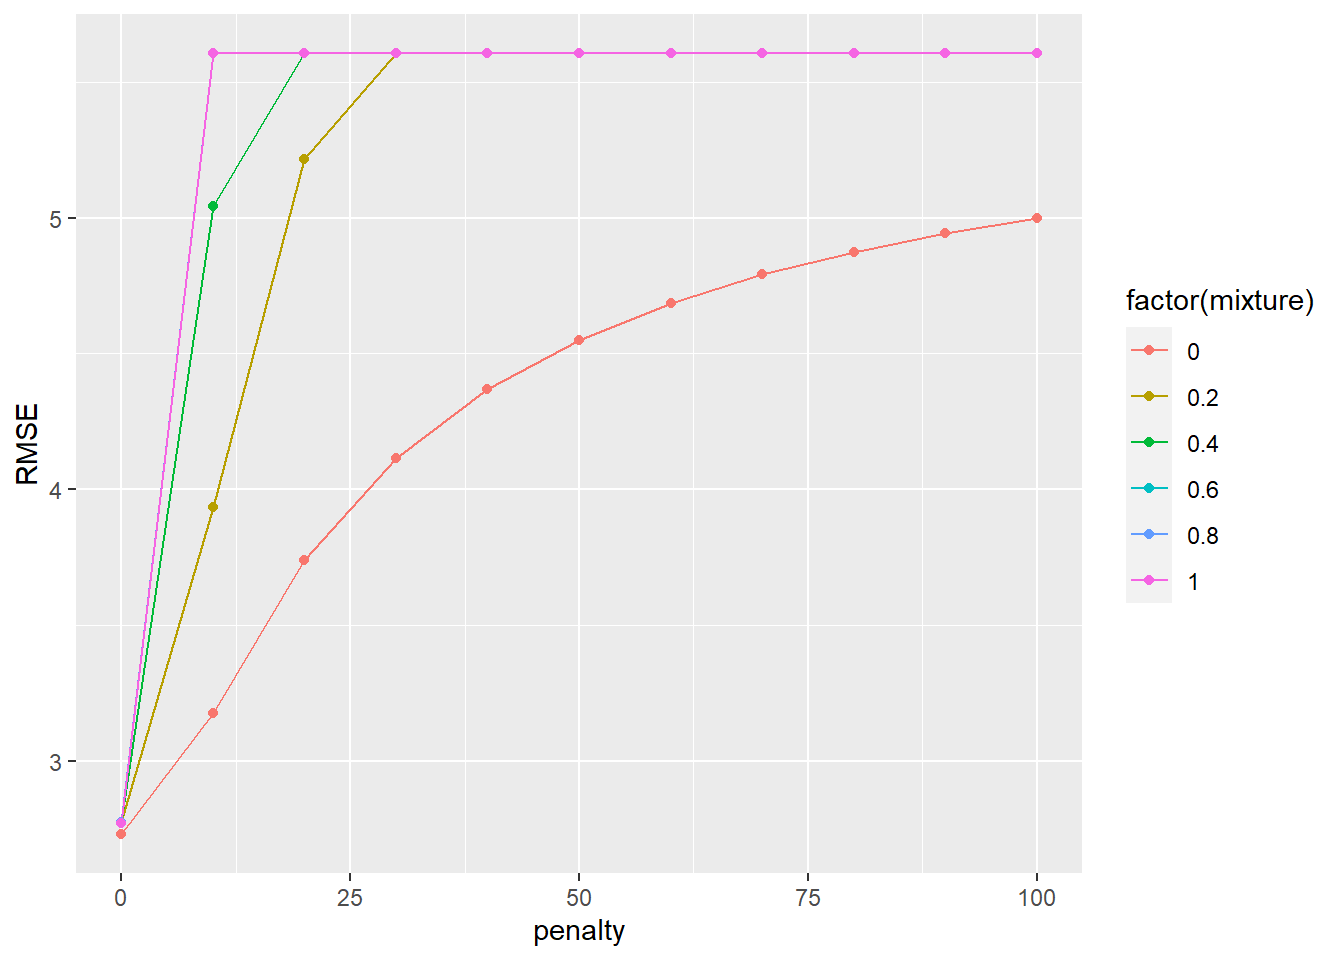
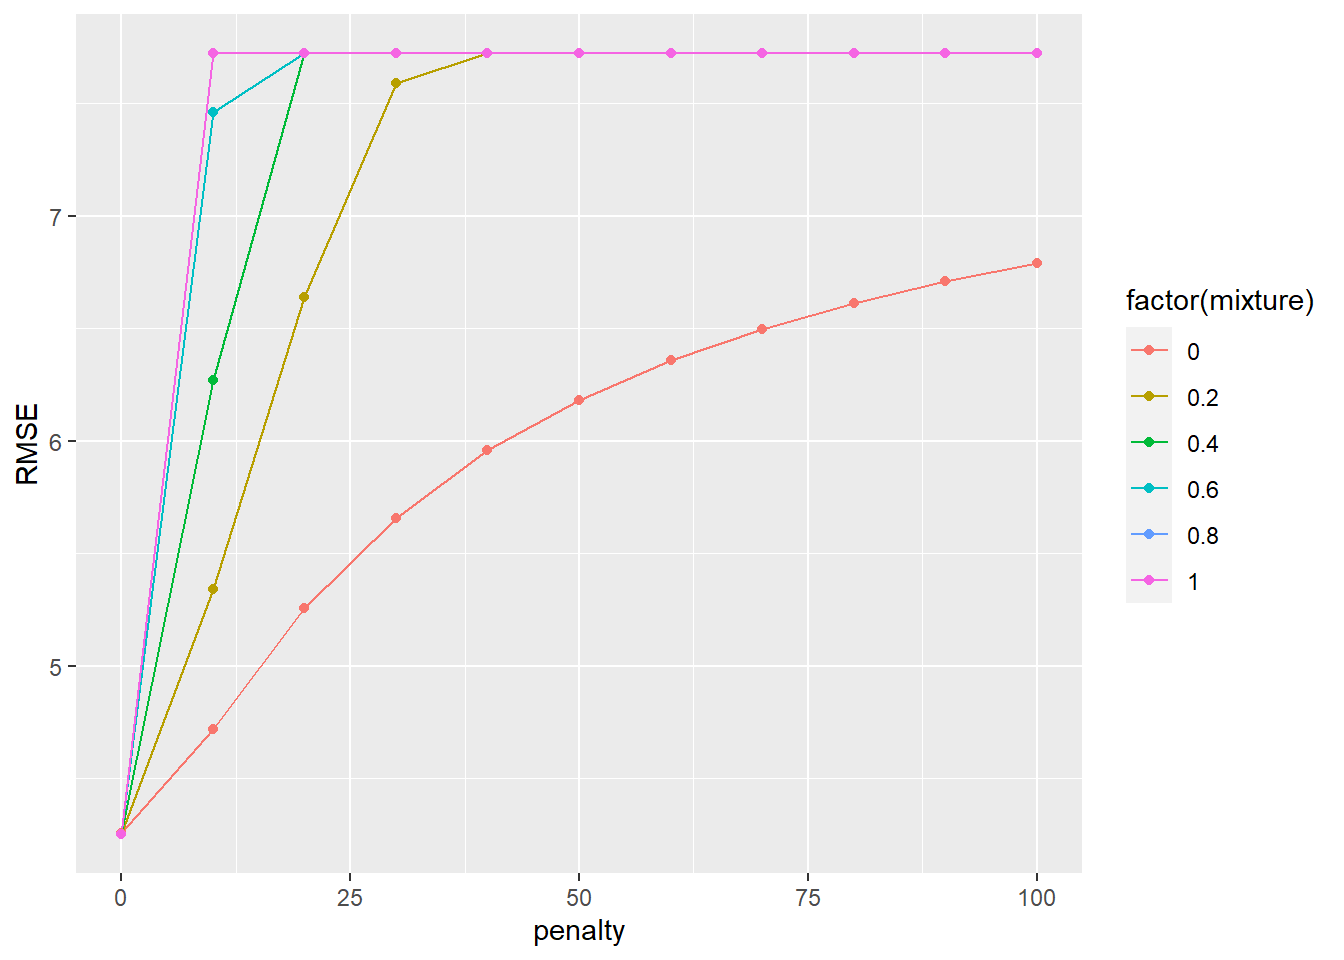
Use Auto dataset from ISLR

diff --git a/tidymodels-elastic-net.html b/tidymodels-elastic-net.html
@@ -141,7 +141,7 @@ code span.wa { color: #60a0b0; font-weight: bold; font-style: italic; } /* Warni
 ✖ dplyr::filter()  masks stats::filter()
 ✖ dplyr::lag()     masks stats::lag()
 ✖ recipes::step()  masks stats::step()
-• Use tidymodels_prefer() to resolve common conflicts.</code></pre>
+• Dig deeper into tidy modeling with R at https://www.tmwr.org</code></pre>
 </div>
 <div class="sourceCode cell-code" id="cb5"><pre class="sourceCode r code-with-copy"><code class="sourceCode r"><span id="cb5-1"><a href="#cb5-1" aria-hidden="true" tabindex="-1"></a><span class="fu">library</span>(glmnet)</span></code><button title="Copy to Clipboard" class="code-copy-button"><i class="bi"></i></button></pre></div>
 <div class="cell-output cell-output-stderr">
@@ -159,29 +159,31 @@ Attaching package: 'Matrix'</code></pre>
 <div class="cell-output cell-output-stderr">
 <pre><code>Loaded glmnet 4.1-4</code></pre>
 </div>
-<div class="sourceCode cell-code" id="cb10"><pre class="sourceCode r code-with-copy"><code class="sourceCode r"><span id="cb10-1"><a href="#cb10-1" aria-hidden="true" tabindex="-1"></a>car_data <span class="ot">&lt;-</span> mtcars</span>
+<div class="sourceCode cell-code" id="cb10"><pre class="sourceCode r code-with-copy"><code class="sourceCode r"><span id="cb10-1"><a href="#cb10-1" aria-hidden="true" tabindex="-1"></a><span class="fu">library</span>(ISLR)</span>
 <span id="cb10-2"><a href="#cb10-2" aria-hidden="true" tabindex="-1"></a></span>
-<span id="cb10-3"><a href="#cb10-3" aria-hidden="true" tabindex="-1"></a>lm_spec <span class="ot">&lt;-</span> </span>
-<span id="cb10-4"><a href="#cb10-4" aria-hidden="true" tabindex="-1"></a>  <span class="fu">linear_reg</span>() <span class="sc">%&gt;%</span> </span>
-<span id="cb10-5"><a href="#cb10-5" aria-hidden="true" tabindex="-1"></a>  <span class="fu">set_engine</span>(<span class="at">engine =</span> <span class="st">"lm"</span>)</span>
-<span id="cb10-6"><a href="#cb10-6" aria-hidden="true" tabindex="-1"></a></span>
-<span id="cb10-7"><a href="#cb10-7" aria-hidden="true" tabindex="-1"></a><span class="fu">set.seed</span>(<span class="dv">100</span>)</span>
-<span id="cb10-8"><a href="#cb10-8" aria-hidden="true" tabindex="-1"></a>car_split <span class="ot">&lt;-</span> car_data <span class="sc">%&gt;%</span> </span>
-<span id="cb10-9"><a href="#cb10-9" aria-hidden="true" tabindex="-1"></a>  <span class="fu">initial_split</span>(<span class="at">prop =</span> <span class="fl">0.5</span>)</span>
-<span id="cb10-10"><a href="#cb10-10" aria-hidden="true" tabindex="-1"></a></span>
-<span id="cb10-11"><a href="#cb10-11" aria-hidden="true" tabindex="-1"></a><span class="co"># using last_fit() as a shortcut</span></span>
-<span id="cb10-12"><a href="#cb10-12" aria-hidden="true" tabindex="-1"></a>lm_fit <span class="ot">&lt;-</span> <span class="fu">last_fit</span>(lm_spec,</span>
-<span id="cb10-13"><a href="#cb10-13" aria-hidden="true" tabindex="-1"></a>              mpg <span class="sc">~</span> hp,</span>
-<span id="cb10-14"><a href="#cb10-14" aria-hidden="true" tabindex="-1"></a>              <span class="at">split =</span> car_split)</span>
-<span id="cb10-15"><a href="#cb10-15" aria-hidden="true" tabindex="-1"></a></span>
-<span id="cb10-16"><a href="#cb10-16" aria-hidden="true" tabindex="-1"></a>lm_fit <span class="sc">%&gt;%</span> </span>
-<span id="cb10-17"><a href="#cb10-17" aria-hidden="true" tabindex="-1"></a>  <span class="fu">collect_metrics</span>()</span></code><button title="Copy to Clipboard" class="code-copy-button"><i class="bi"></i></button></pre></div>
+<span id="cb10-3"><a href="#cb10-3" aria-hidden="true" tabindex="-1"></a>car_data <span class="ot">&lt;-</span> Auto</span>
+<span id="cb10-4"><a href="#cb10-4" aria-hidden="true" tabindex="-1"></a></span>
+<span id="cb10-5"><a href="#cb10-5" aria-hidden="true" tabindex="-1"></a>lm_spec <span class="ot">&lt;-</span> </span>
+<span id="cb10-6"><a href="#cb10-6" aria-hidden="true" tabindex="-1"></a>  <span class="fu">linear_reg</span>() <span class="sc">%&gt;%</span> </span>
+<span id="cb10-7"><a href="#cb10-7" aria-hidden="true" tabindex="-1"></a>  <span class="fu">set_engine</span>(<span class="at">engine =</span> <span class="st">"lm"</span>)</span>
+<span id="cb10-8"><a href="#cb10-8" aria-hidden="true" tabindex="-1"></a></span>
+<span id="cb10-9"><a href="#cb10-9" aria-hidden="true" tabindex="-1"></a><span class="fu">set.seed</span>(<span class="dv">100</span>)</span>
+<span id="cb10-10"><a href="#cb10-10" aria-hidden="true" tabindex="-1"></a>car_split <span class="ot">&lt;-</span> car_data <span class="sc">%&gt;%</span> </span>
+<span id="cb10-11"><a href="#cb10-11" aria-hidden="true" tabindex="-1"></a>  <span class="fu">initial_split</span>(<span class="at">prop =</span> <span class="fl">0.5</span>)</span>
+<span id="cb10-12"><a href="#cb10-12" aria-hidden="true" tabindex="-1"></a></span>
+<span id="cb10-13"><a href="#cb10-13" aria-hidden="true" tabindex="-1"></a><span class="co"># using last_fit() as a shortcut</span></span>
+<span id="cb10-14"><a href="#cb10-14" aria-hidden="true" tabindex="-1"></a>lm_fit <span class="ot">&lt;-</span> <span class="fu">last_fit</span>(lm_spec,</span>
+<span id="cb10-15"><a href="#cb10-15" aria-hidden="true" tabindex="-1"></a>              mpg <span class="sc">~</span> horsepower,</span>
+<span id="cb10-16"><a href="#cb10-16" aria-hidden="true" tabindex="-1"></a>              <span class="at">split =</span> car_split)</span>
+<span id="cb10-17"><a href="#cb10-17" aria-hidden="true" tabindex="-1"></a></span>
+<span id="cb10-18"><a href="#cb10-18" aria-hidden="true" tabindex="-1"></a>lm_fit <span class="sc">%&gt;%</span> </span>
+<span id="cb10-19"><a href="#cb10-19" aria-hidden="true" tabindex="-1"></a>  <span class="fu">collect_metrics</span>()</span></code><button title="Copy to Clipboard" class="code-copy-button"><i class="bi"></i></button></pre></div>
 <div class="cell-output cell-output-stdout">
 <pre><code># A tibble: 2 × 4
   .metric .estimator .estimate .config             
   &lt;chr&gt;   &lt;chr&gt;          &lt;dbl&gt; &lt;chr&gt;               
-1 rmse    standard       4.66  Preprocessor1_Model1
-2 rsq     standard       0.671 Preprocessor1_Model1</code></pre>
+1 rmse    standard       4.96  Preprocessor1_Model1
+2 rsq     standard       0.613 Preprocessor1_Model1</code></pre>
 </div>
 </div>
 <section id="using-cross-validation" class="level2">
@@ -190,26 +192,26 @@ Attaching package: 'Matrix'</code></pre>
 <div class="sourceCode cell-code" id="cb12"><pre class="sourceCode r code-with-copy"><code class="sourceCode r"><span id="cb12-1"><a href="#cb12-1" aria-hidden="true" tabindex="-1"></a>car_cv <span class="ot">&lt;-</span> <span class="fu">vfold_cv</span>(car_data, <span class="at">v =</span> <span class="dv">5</span>)</span>
 <span id="cb12-2"><a href="#cb12-2" aria-hidden="true" tabindex="-1"></a></span>
 <span id="cb12-3"><a href="#cb12-3" aria-hidden="true" tabindex="-1"></a>results <span class="ot">&lt;-</span> <span class="fu">fit_resamples</span>(lm_spec,</span>
-<span id="cb12-4"><a href="#cb12-4" aria-hidden="true" tabindex="-1"></a>              mpg <span class="sc">~</span> hp,</span>
+<span id="cb12-4"><a href="#cb12-4" aria-hidden="true" tabindex="-1"></a>              mpg <span class="sc">~</span> horsepower,</span>
 <span id="cb12-5"><a href="#cb12-5" aria-hidden="true" tabindex="-1"></a>              <span class="at">resamples =</span> car_cv)</span>
 <span id="cb12-6"><a href="#cb12-6" aria-hidden="true" tabindex="-1"></a>results <span class="sc">%&gt;%</span> <span class="fu">collect_metrics</span>()</span></code><button title="Copy to Clipboard" class="code-copy-button"><i class="bi"></i></button></pre></div>
 <div class="cell-output cell-output-stdout">
 <pre><code># A tibble: 2 × 6
   .metric .estimator  mean     n std_err .config             
   &lt;chr&gt;   &lt;chr&gt;      &lt;dbl&gt; &lt;int&gt;   &lt;dbl&gt; &lt;chr&gt;               
-1 rmse    standard   3.42      5  0.864  Preprocessor1_Model1
-2 rsq     standard   0.758     5  0.0825 Preprocessor1_Model1</code></pre>
+1 rmse    standard   4.88      5  0.385  Preprocessor1_Model1
+2 rsq     standard   0.616     5  0.0220 Preprocessor1_Model1</code></pre>
 </div>
 <div class="sourceCode cell-code" id="cb14"><pre class="sourceCode r code-with-copy"><code class="sourceCode r"><span id="cb14-1"><a href="#cb14-1" aria-hidden="true" tabindex="-1"></a>results_hpsq <span class="ot">&lt;-</span> <span class="fu">fit_resamples</span>(lm_spec,</span>
-<span id="cb14-2"><a href="#cb14-2" aria-hidden="true" tabindex="-1"></a>              mpg <span class="sc">~</span> hp <span class="sc">+</span> <span class="fu">I</span>(hp <span class="sc">^</span> <span class="dv">2</span>),</span>
+<span id="cb14-2"><a href="#cb14-2" aria-hidden="true" tabindex="-1"></a>              mpg <span class="sc">~</span> horsepower <span class="sc">+</span> <span class="fu">I</span>(horsepower <span class="sc">^</span> <span class="dv">2</span>),</span>
 <span id="cb14-3"><a href="#cb14-3" aria-hidden="true" tabindex="-1"></a>              <span class="at">resamples =</span> car_cv)</span>
 <span id="cb14-4"><a href="#cb14-4" aria-hidden="true" tabindex="-1"></a>results_hpsq <span class="sc">%&gt;%</span> <span class="fu">collect_metrics</span>()</span></code><button title="Copy to Clipboard" class="code-copy-button"><i class="bi"></i></button></pre></div>
 <div class="cell-output cell-output-stdout">
 <pre><code># A tibble: 2 × 6
   .metric .estimator  mean     n std_err .config             
   &lt;chr&gt;   &lt;chr&gt;      &lt;dbl&gt; &lt;int&gt;   &lt;dbl&gt; &lt;chr&gt;               
-1 rmse    standard   3.22      5  0.498  Preprocessor1_Model1
-2 rsq     standard   0.842     5  0.0534 Preprocessor1_Model1</code></pre>
+1 rmse    standard   4.38      5  0.294  Preprocessor1_Model1
+2 rsq     standard   0.692     5  0.0224 Preprocessor1_Model1</code></pre>
 </div>
 </div>
 </section>
@@ -217,7 +219,7 @@ Attaching package: 'Matrix'</code></pre>
 <h2 class="anchored" data-anchor-id="recipes">Recipes</h2>
 <div class="cell">
 <div class="sourceCode cell-code" id="cb16"><pre class="sourceCode r code-with-copy"><code class="sourceCode r"><span id="cb16-1"><a href="#cb16-1" aria-hidden="true" tabindex="-1"></a>car_recipe <span class="ot">&lt;-</span></span>
-<span id="cb16-2"><a href="#cb16-2" aria-hidden="true" tabindex="-1"></a>  <span class="fu">recipe</span>(mpg <span class="sc">~</span> hp <span class="sc">+</span> disp <span class="sc">+</span> wt, <span class="at">data =</span> car_data) <span class="sc">%&gt;%</span> </span>
+<span id="cb16-2"><a href="#cb16-2" aria-hidden="true" tabindex="-1"></a>  <span class="fu">recipe</span>(mpg <span class="sc">~</span> horsepower <span class="sc">+</span> displacement <span class="sc">+</span> weight, <span class="at">data =</span> car_data) <span class="sc">%&gt;%</span> </span>
 <span id="cb16-3"><a href="#cb16-3" aria-hidden="true" tabindex="-1"></a>  <span class="fu">step_scale</span>(<span class="fu">all_predictors</span>())</span>
 <span id="cb16-4"><a href="#cb16-4" aria-hidden="true" tabindex="-1"></a></span>
 <span id="cb16-5"><a href="#cb16-5" aria-hidden="true" tabindex="-1"></a>results_scaled <span class="ot">&lt;-</span> <span class="fu">fit_resamples</span>(lm_spec,</span>
@@ -230,8 +232,8 @@ Attaching package: 'Matrix'</code></pre>
 <pre><code># A tibble: 2 × 6
   .metric .estimator  mean     n std_err .config             
   &lt;chr&gt;   &lt;chr&gt;      &lt;dbl&gt; &lt;int&gt;   &lt;dbl&gt; &lt;chr&gt;               
-1 rmse    standard   2.78      5  0.363  Preprocessor1_Model1
-2 rsq     standard   0.853     5  0.0134 Preprocessor1_Model1</code></pre>
+1 rmse    standard   4.25      5  0.321  Preprocessor1_Model1
+2 rsq     standard   0.713     5  0.0183 Preprocessor1_Model1</code></pre>
 </div>
 </div>
 </section>
@@ -250,8 +252,8 @@ Attaching package: 'Matrix'</code></pre>
 <pre><code># A tibble: 2 × 6
   .metric .estimator  mean     n std_err .config             
   &lt;chr&gt;   &lt;chr&gt;      &lt;dbl&gt; &lt;int&gt;   &lt;dbl&gt; &lt;chr&gt;               
-1 rmse    standard   5.00      5  0.860  Preprocessor1_Model1
-2 rsq     standard   0.852     5  0.0116 Preprocessor1_Model1</code></pre>
+1 rmse    standard   6.79      5  0.546  Preprocessor1_Model1
+2 rsq     standard   0.705     5  0.0199 Preprocessor1_Model1</code></pre>
 </div>
 </div>
 <p>Now to tune the hyperparameters.</p>
@@ -289,16 +291,16 @@ Attaching package: 'Matrix'</code></pre>
 <pre><code># A tibble: 66 × 8
    penalty mixture .metric .estimator  mean     n std_err .config              
      &lt;dbl&gt;   &lt;dbl&gt; &lt;chr&gt;   &lt;chr&gt;      &lt;dbl&gt; &lt;int&gt;   &lt;dbl&gt; &lt;chr&gt;                
- 1       0     0   rmse    standard    2.73     5   0.309 Preprocessor1_Model01
- 2       0     1   rmse    standard    2.77     5   0.361 Preprocessor1_Model56
- 3       0     0.8 rmse    standard    2.77     5   0.360 Preprocessor1_Model45
- 4       0     0.6 rmse    standard    2.77     5   0.358 Preprocessor1_Model34
- 5       0     0.2 rmse    standard    2.77     5   0.356 Preprocessor1_Model12
- 6       0     0.4 rmse    standard    2.78     5   0.357 Preprocessor1_Model23
- 7      10     0   rmse    standard    3.18     5   0.659 Preprocessor1_Model02
- 8      20     0   rmse    standard    3.74     5   0.764 Preprocessor1_Model03
- 9      10     0.2 rmse    standard    3.93     5   0.792 Preprocessor1_Model13
-10      30     0   rmse    standard    4.11     5   0.803 Preprocessor1_Model04
+ 1       0     0.6 rmse    standard    4.25     5   0.324 Preprocessor1_Model34
+ 2       0     0.4 rmse    standard    4.25     5   0.324 Preprocessor1_Model23
+ 3       0     0.2 rmse    standard    4.25     5   0.324 Preprocessor1_Model12
+ 4       0     0.8 rmse    standard    4.25     5   0.324 Preprocessor1_Model45
+ 5       0     1   rmse    standard    4.25     5   0.324 Preprocessor1_Model56
+ 6       0     0   rmse    standard    4.25     5   0.344 Preprocessor1_Model01
+ 7      10     0   rmse    standard    4.72     5   0.453 Preprocessor1_Model02
+ 8      20     0   rmse    standard    5.25     5   0.494 Preprocessor1_Model03
+ 9      10     0.2 rmse    standard    5.34     5   0.509 Preprocessor1_Model13
+10      30     0   rmse    standard    5.66     5   0.514 Preprocessor1_Model04
 # … with 56 more rows</code></pre>
 </div>
 </div>
@@ -320,7 +322,7 @@ Attaching package: 'Matrix'</code></pre>
 <span id="cb29-2"><a href="#cb29-2" aria-hidden="true" tabindex="-1"></a>  <span class="fu">mutate</span>(<span class="at">meaningless =</span> <span class="fu">runif</span>(<span class="fu">n</span>()))</span>
 <span id="cb29-3"><a href="#cb29-3" aria-hidden="true" tabindex="-1"></a></span>
 <span id="cb29-4"><a href="#cb29-4" aria-hidden="true" tabindex="-1"></a>car_recipe_2 <span class="ot">&lt;-</span></span>
-<span id="cb29-5"><a href="#cb29-5" aria-hidden="true" tabindex="-1"></a>  <span class="fu">recipe</span>(mpg <span class="sc">~</span> hp <span class="sc">+</span> disp <span class="sc">+</span> wt <span class="sc">+</span> meaningless, <span class="at">data =</span> car_data_2) <span class="sc">%&gt;%</span> </span>
+<span id="cb29-5"><a href="#cb29-5" aria-hidden="true" tabindex="-1"></a>  <span class="fu">recipe</span>(mpg <span class="sc">~</span> horsepower <span class="sc">+</span> displacement <span class="sc">+</span> weight <span class="sc">+</span> meaningless, <span class="at">data =</span> car_data_2) <span class="sc">%&gt;%</span> </span>
 <span id="cb29-6"><a href="#cb29-6" aria-hidden="true" tabindex="-1"></a>  <span class="fu">step_scale</span>(<span class="fu">all_predictors</span>())</span>
 <span id="cb29-7"><a href="#cb29-7" aria-hidden="true" tabindex="-1"></a></span>
 <span id="cb29-8"><a href="#cb29-8" aria-hidden="true" tabindex="-1"></a>car_cv_2 <span class="ot">&lt;-</span> <span class="fu">vfold_cv</span>(car_data_2, <span class="at">v =</span> <span class="dv">5</span>)</span>
@@ -352,16 +354,16 @@ Attaching package: 'Matrix'</code></pre>
 <pre><code># A tibble: 66 × 8
    penalty mixture .metric .estimator  mean     n std_err .config              
      &lt;dbl&gt;   &lt;dbl&gt; &lt;chr&gt;   &lt;chr&gt;      &lt;dbl&gt; &lt;int&gt;   &lt;dbl&gt; &lt;chr&gt;                
- 1       0     0   rmse    standard    2.68     5   0.354 Preprocessor1_Model01
- 2       0     0.6 rmse    standard    2.69     5   0.393 Preprocessor1_Model34
- 3       0     0.4 rmse    standard    2.69     5   0.393 Preprocessor1_Model23
- 4       0     0.2 rmse    standard    2.69     5   0.393 Preprocessor1_Model12
- 5       0     0.8 rmse    standard    2.69     5   0.393 Preprocessor1_Model45
- 6       0     1   rmse    standard    2.69     5   0.393 Preprocessor1_Model56
- 7      10     0   rmse    standard    3.35     5   0.464 Preprocessor1_Model02
- 8      20     0   rmse    standard    4.02     5   0.491 Preprocessor1_Model03
- 9      10     0.2 rmse    standard    4.24     5   0.515 Preprocessor1_Model13
-10      30     0   rmse    standard    4.45     5   0.501 Preprocessor1_Model04
+ 1       0     0.8 rmse    standard    4.26     5   0.185 Preprocessor1_Model45
+ 2       0     1   rmse    standard    4.26     5   0.184 Preprocessor1_Model56
+ 3       0     0.6 rmse    standard    4.26     5   0.186 Preprocessor1_Model34
+ 4       0     0.4 rmse    standard    4.26     5   0.186 Preprocessor1_Model23
+ 5       0     0.2 rmse    standard    4.26     5   0.187 Preprocessor1_Model12
+ 6       0     0   rmse    standard    4.27     5   0.193 Preprocessor1_Model01
+ 7      10     0   rmse    standard    4.76     5   0.198 Preprocessor1_Model02
+ 8      20     0   rmse    standard    5.31     5   0.203 Preprocessor1_Model03
+ 9      10     0.2 rmse    standard    5.38     5   0.201 Preprocessor1_Model13
+10      30     0   rmse    standard    5.72     5   0.203 Preprocessor1_Model04
 # … with 56 more rows</code></pre>
 </div>
 <div class="sourceCode cell-code" id="cb37"><pre class="sourceCode r code-with-copy"><code class="sourceCode r"><span id="cb37-1"><a href="#cb37-1" aria-hidden="true" tabindex="-1"></a>results_penalised_2 <span class="sc">%&gt;%</span></span>
@@ -375,7 +377,7 @@ Attaching package: 'Matrix'</code></pre>
 <p><img src="tidymodels-elastic-net_files/figure-html/unnamed-chunk-7-1.png" class="img-fluid" width="672"></p>
 </div>
 </div>
-<p>Seems to make no difference.</p>
+<p>Seems to make no difference: best result is still the one without penalisation.</p>
 </section>
 
 </main>
